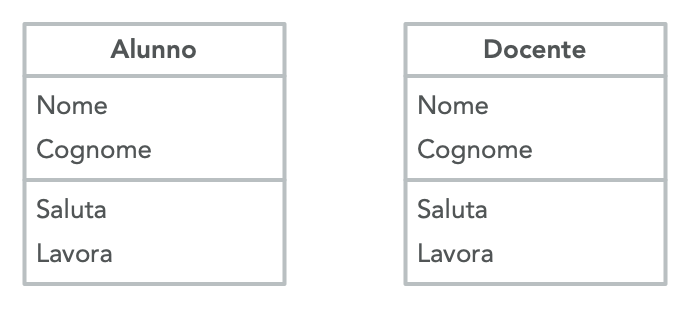
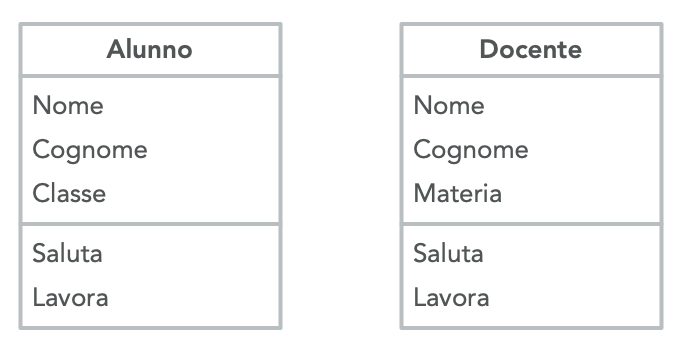
oggetti

Changed region(s): [[0.0, 0.0581, 0.4311, 0.929], [0.585, 0.0581, 0.9853, 0.929], [0.585, 0.7839, 0.739, 0.871]]

diff --git a/_python/la-programmazione-ad-oggetti.md b/_python/la-programmazione-ad-oggetti.md
@@ -47,13 +47,13 @@ class Cerchio:
         """ Calcola l'area del cerchio 
         return float
         """ 
-        return self.raggio ** 2 * self.pigreco
+        return self.raggio ** 2 * pigreco
         
     def calcola_circonferenza(self):
         """ Calcola la circonferenza del cerchio 
         return float
         """ 
-        return 2 * self.pigreco * self.raggio
+        return 2 * pigreco * self.raggio
 {% endhighlight %}
 
 La classe Cerchio ha un **attributo di classe** chiamato *pigreco*. È un attributo di classe perchè ha lo stesso valore per tutte le istanze della classe.
@@ -137,61 +137,67 @@ Quando si parla di incapsulamento si intendono due aspetti della progettazione d
 
 ## Ereditarietà 
 
-La particolarità della programmazione ad oggetti consiste nel creare gerarchie di classi che condividono metodi ed attributi al fine di permettere al programmatore di definire di volta in volta non l’intero ammontare di informazioni e algoritmi ma soltanto ciò che varia.
+La programmazione ad oggetti permette di creare gerarchie di classi che condividono metodi ed attributi al fine di permettere al programmatore di definire di volta in volta non l’intero ammontare di informazioni e algoritmi ma soltanto ciò che varia.
 
-Supponiamo di aver definito due classi Docente ed Alunno che definiscono il metodo **saluta** e il metodo **lavora**. Il metodo saluta è analogo per entrambe le classi mentre il metodo lavora è diverso.
+Supponiamo di aver definito due classi Docente ed Alunno che definiscono il metodo **saluta** e il metodo **lavora**. Il metodo saluta è analogo per entrambe le classi mentre il metodo lavora è diverso. Entrambe le classi contengono gli attributi nome e cognome ma la classe Docente contiene l'attributo materia mentre la classe Alunno contiene l'attributo classe.
 
 ![Ereditarietà](/images/python/oggetti/ereditarieta1.png){:class="aside-image"}
 
 {% highlight python %}
 class Docente:
-    def __init__(self, nome, cognome):
+    def __init__(self, nome, cognome, materia):
         """ Costruttore 
         parametro nome string 
         parametro cognome string 
+        parametro materia string 
         """
         self.nome = nome 
         self.cognome = cognome
+        self.materia = materia
         
     def saluta(self):
         """ Scrive una stringa di saluto 
         return string
         """
-    return "Ciao, mi chiamo " + self.nome + " " + self.cognome
+        return "Ciao, mi chiamo " + self.nome + " " + self.cognome
 	
     def lavora(self):
         """ Scrive una stringa per spiegare cosa fa 
         return string
         """
-        print("Sto studiando")
+        return "Sto insegnando " + self.materia
 
 class Alunno:
-    def __init__(self, nome, cognome):
+    def __init__(self, nome, cognome, classe):
         """ Costruttore 
         parametro nome string 
         parametro cognome string 
+        parametro classe string 
         """
         self.nome = nome 
         self.cognome = cognome
+        self.classe = classe
         
     def saluta(self):
         """ Scrive una stringa di saluto 
         return string
         """
-    return "Ciao, mi chiamo " + self.nome + " " + self.cognome
+        return "Ciao, mi chiamo " + self.nome + " " + self.cognome
 	
     def lavora(self):
         """ Scrive una stringa per spiegare cosa fa 
         return string
         """
-        print("Sto studiando")
+        return "Sto frequentando la classe " + self.classe
 {% endhighlight %}
 
 L'ereditarietà mi permette di astrarre in una classe genitore le informazioni e i metodi comuni in modo da rendere il codice molto più compatto. 
 
-Definiamo dunque la classe Persona che contiene gli attributi **nome** e **cognome** e contiene il metodo **saluta** comune sia alla classe Docente che alla classe Alunno.
+Definiamo dunque la classe Persona che contiene gli attributi **nome** e **cognome** e contiene il metodo **saluta**. Sono stati scelti questi attributi e questo metodo perché comuni sia alla classe Docente che alla classe Alunno.
 
 Quando vado a definire la classe Docente indico il fatto che questa eredita da Persona mettendo il nome della classe Persona tra parentesi di fianco al nome della classe Docente. A questo punto la classe Docente erediterà da Persona attributi e metodi e le sue implementazioni potranno utilizzare questi attributi e questi metodi ereditati come se fossero parte integrande della classe Docente. Mi comporto analogamente con la classe Alunno.
+
+Notiamo che il costruttore della classe docente è un po' diverso dal solito. Questo avviene perché vado a richiamare al suo interno il costruttore della classe padre in modo da non implementare due volte l'assegnazione degli attributi nome e cognome.
 
 Notiamo come il codice diventa più snello dato che non ho bisogno di definire due volte gli stessi metodi e gli stessi attributi riducendo la ridondanza del codice.
 
@@ -211,20 +217,39 @@ class Persona:
         """ Scrive una stringa di saluto 
         return string
         """
-    return "Ciao, mi chiamo " + self.nome + " " + self.cognome
+        return "Ciao, mi chiamo " + self.nome + " " + self.cognome
 	
 class Docente(Persona):
+    def __init__(self, nome, cognome, materia):
+        """ Costruttore 
+        parametro nome string 
+        parametro cognome string 
+        parametro materia string 
+        """
+        super().__init__(nome, cognome)
+        self.materia = materia
+		
     def lavora(self):
         """ Scrive una stringa per spiegare cosa fa 
         return string
         """
-        print("Sto studiando")
+        return "Sto insegnando " + self.materia
+		
 class Alunno(Persona):
+    def __init__(self, nome, cognome, classe):
+        """ Costruttore 
+        parametro nome string 
+        parametro cognome string 
+        parametro classe string 
+        """
+        super().__init__(nome, cognome)
+        self.classe = classe
+		
     def lavora(self):
         """ Scrive una stringa per spiegare cosa fa 
         return string
         """
-        print("Sto studiando")
+        return "Sto frequentando la classe " + self.classe
 {% endhighlight %}
 
 Sulla destra vediamo i diagrammi UML delle classi. Questi diagrammi servono a rendere visibile la gerarchia delle classi e l'interfaccia di ciascuna classe. Ogni classe viene identificata da un rettangolo che si divide in tre sezioni. Nella prima sezione si mette il nome della classe, nella seconda i suoi attributi e nella terza i suoi metodi. L'ereditarietà si rappresenta con una freccia che dalla classe figlia va verso la classe 
